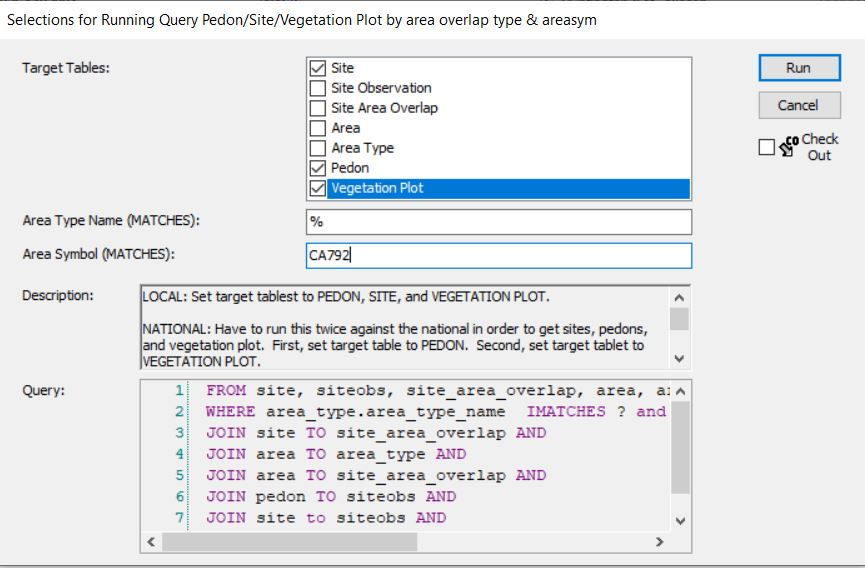
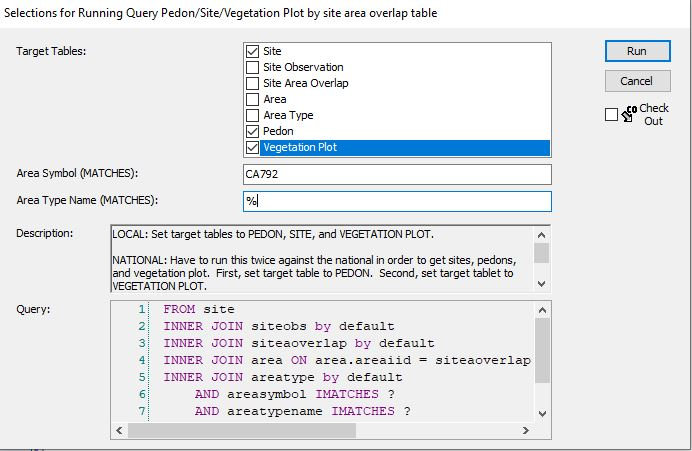
veg query html docs

diff --git a/docs/species.html b/docs/species.html
@@ -23,7 +23,7 @@
 <meta name="author" content="Nathan Roe - nateroe@gmail.com" />
 
 
-<meta name="date" content="2023-08-16" />
+<meta name="date" content="2023-11-28" />
 
   <meta name="viewport" content="width=device-width, initial-scale=1" />
   <meta name="apple-mobile-web-app-capable" content="yes" />
@@ -189,7 +189,8 @@ code span.wa { color: #60a0b0; font-weight: bold; font-style: italic; } /* Warni
 </ul></li>
 <li class="chapter" data-level="5" data-path="species.html"><a href="species.html"><i class="fa fa-check"></i><b>5</b> Species</a>
 <ul>
-<li class="chapter" data-level="5.1" data-path="species.html"><a href="species.html#mapping-the-location-of-species"><i class="fa fa-check"></i><b>5.1</b> Mapping the location of species</a></li>
+<li class="chapter" data-level="5.1" data-path="species.html"><a href="species.html#working-with-vegetation-data"><i class="fa fa-check"></i><b>5.1</b> Working with vegetation data</a></li>
+<li class="chapter" data-level="5.2" data-path="species.html"><a href="species.html#mapping-the-location-of-species"><i class="fa fa-check"></i><b>5.2</b> Mapping the location of species</a></li>
 </ul></li>
 <li class="chapter" data-level="6" data-path="nasis.html"><a href="nasis.html"><i class="fa fa-check"></i><b>6</b> NASIS</a>
 <ul>
@@ -225,11 +226,18 @@ code span.wa { color: #60a0b0; font-weight: bold; font-style: italic; } /* Warni
             <section class="normal" id="section-">
 <div id="species" class="section level1 hasAnchor" number="5">
 <h1><span class="header-section-number">Chapter 5</span> Species<a href="species.html#species" class="anchor-section" aria-label="Anchor link to header"></a></h1>
-<div id="mapping-the-location-of-species" class="section level2 hasAnchor" number="5.1">
-<h2><span class="header-section-number">5.1</span> Mapping the location of species<a href="species.html#mapping-the-location-of-species" class="anchor-section" aria-label="Anchor link to header"></a></h2>
+<div id="working-with-vegetation-data" class="section level2 hasAnchor" number="5.1">
+<h2><span class="header-section-number">5.1</span> Working with vegetation data<a href="species.html#working-with-vegetation-data" class="anchor-section" aria-label="Anchor link to header"></a></h2>
+<p>To begin with, we will query plot level NASIS data using the query outlined in <a href="ecosites.html#plotveg">Accessing plot level vegetation data</a>. Then, run <code>ecositer::vegStaticNASIS()</code> and <code>ecositer::formatted_veg_df()</code>. See the</p>
+<p>Vegetation data QC is a critical step in ecological data analysis. The USDA plants database improves vegetation data quality, ensuring proper scientific names are used, but additional QC must be performed. One of the primary tasks will be dealing with identifications to different taxonomic levels (i.e., genus, species, and subspecies). Statistical approaches think of each class separately and therefore do not recognize any similarity between taxonomic levels. For example, statistical analyses do not recognize any relationship between Pinus, Pinus contorta, and Pinus contorta var. murrayana. For this reason, you will need to determine how to modify your data based on the characteristics of your data set and expert knowledge. This will likely need to be done on a species-by-species basis. The ultimate goal is to group all of the observations of one organism into one class.</p>
+<p>Below is an example of this process and code you can use to assist:</p>
+<p>To begin with, I will look at all of the plant names used:</p>
+</div>
+<div id="mapping-the-location-of-species" class="section level2 hasAnchor" number="5.2">
+<h2><span class="header-section-number">5.2</span> Mapping the location of species<a href="species.html#mapping-the-location-of-species" class="anchor-section" aria-label="Anchor link to header"></a></h2>
 <p>Let’s take a look at the location of species. To do this we will query plot level NASIS data using the query outlined in <a href="ecosites.html#plotveg">Accessing plot level vegetation data</a>.</p>
 <p>Once you have queried, you can filter your dataset for any species of interest. I am going to search for a genus - <em>Artemisia</em> (sagebrush). Ultimately, we will produce a map that shows the distribution of all the species of <em>Artemisia</em>.</p>
-<div class="sourceCode" id="cb78"><pre class="sourceCode r"><code class="sourceCode r"><span id="cb78-1"><a href="species.html#cb78-1" aria-hidden="true" tabindex="-1"></a>veg_data <span class="ot">&lt;-</span> <span class="fu">fetchVegdata</span>(<span class="at">dsn =</span> <span class="st">&quot;C:/Users/Nathan.Roe/Documents/SEKI/CA792_veg.sqlite&quot;</span>, <span class="at">SS =</span> <span class="cn">FALSE</span>)</span></code></pre></div>
+<div class="sourceCode" id="cb78"><pre class="sourceCode r"><code class="sourceCode r"><span id="cb78-1"><a href="species.html#cb78-1" aria-hidden="true" tabindex="-1"></a>veg_data <span class="ot">&lt;-</span> <span class="fu">fetchVegdata</span>(<span class="at">dsn =</span> <span class="st">&quot;C:/Users/Nathan.Roe/Documents/SEKI/CA792_veg_data.sqlite&quot;</span>, <span class="at">SS =</span> <span class="cn">FALSE</span>)</span></code></pre></div>
 <pre><code>## NOTE: some records are missing surface fragment cover</code></pre>
 <div class="sourceCode" id="cb80"><pre class="sourceCode r"><code class="sourceCode r"><span id="cb80-1"><a href="species.html#cb80-1" aria-hidden="true" tabindex="-1"></a>artemesia_df <span class="ot">&lt;-</span></span>
 <span id="cb80-2"><a href="species.html#cb80-2" aria-hidden="true" tabindex="-1"></a>  veg_data<span class="sc">$</span>vegplotspecies <span class="sc">%&gt;%</span> <span class="fu">filter</span>(plantsciname <span class="sc">%in%</span> <span class="fu">str_subset</span>(veg_data<span class="sc">$</span>vegplotspecies<span class="sc">$</span>plantsciname, <span class="st">&quot;Artemisia&quot;</span>)) <span class="sc">%&gt;%</span></span>
@@ -244,12 +252,13 @@ code span.wa { color: #60a0b0; font-weight: bold; font-style: italic; } /* Warni
 <span id="cb81-7"><a href="species.html#cb81-7" aria-hidden="true" tabindex="-1"></a>  dplyr<span class="sc">::</span><span class="fu">left_join</span>(artemesia_df) <span class="sc">%&gt;%</span> <span class="fu">st_as_sf</span>(<span class="at">coords =</span> <span class="fu">c</span>(<span class="st">&#39;utmeasting&#39;</span>, <span class="st">&#39;utmnorthing&#39;</span>),</span>
 <span id="cb81-8"><a href="species.html#cb81-8" aria-hidden="true" tabindex="-1"></a>                                              <span class="at">crs =</span> <span class="fu">st_crs</span>(<span class="dv">32611</span>))</span></code></pre></div>
 <pre><code>## Joining with `by = join_by(siteiid)`</code></pre>
-<pre><code>## Warning in dplyr::left_join(., artemesia_df): Each row in `x` is expected to match at most 1 row in `y`.
+<pre><code>## Warning in dplyr::left_join(., artemesia_df): Each row in `x` is expected to match at most 1 row in
+## `y`.
 ## ℹ Row 1 of `x` matches multiple rows.
-## ℹ If multiple matches are expected, set `multiple = &quot;all&quot;` to
-##   silence this warning.</code></pre>
+## ℹ If multiple matches are expected, set `multiple =
+##   &quot;all&quot;` to silence this warning.</code></pre>
 <p>Create a list of dataframes based on the different</p>
-<div class="sourceCode" id="cb84"><pre class="sourceCode r"><code class="sourceCode r"><span id="cb84-1"><a href="species.html#cb84-1" aria-hidden="true" tabindex="-1"></a>veg_data <span class="ot">&lt;-</span> <span class="fu">fetchVegdata</span>(<span class="at">dsn =</span> <span class="st">&quot;C:/Users/Nathan.Roe/Documents/SEKI/CA792_veg.sqlite&quot;</span>, <span class="at">SS =</span> <span class="cn">FALSE</span>)</span></code></pre></div>
+<div class="sourceCode" id="cb84"><pre class="sourceCode r"><code class="sourceCode r"><span id="cb84-1"><a href="species.html#cb84-1" aria-hidden="true" tabindex="-1"></a>veg_data <span class="ot">&lt;-</span> <span class="fu">fetchVegdata</span>(<span class="at">dsn =</span> <span class="st">&quot;C:/Users/Nathan.Roe/Documents/SEKI/CA792_veg_data.sqlite&quot;</span>, <span class="at">SS =</span> <span class="cn">FALSE</span>)</span></code></pre></div>
 <pre><code>## NOTE: some records are missing surface fragment cover</code></pre>
 <div class="sourceCode" id="cb86"><pre class="sourceCode r"><code class="sourceCode r"><span id="cb86-1"><a href="species.html#cb86-1" aria-hidden="true" tabindex="-1"></a>artemesia_df <span class="ot">&lt;-</span></span>
 <span id="cb86-2"><a href="species.html#cb86-2" aria-hidden="true" tabindex="-1"></a>  veg_data<span class="sc">$</span>vegplotspecies <span class="sc">%&gt;%</span> <span class="fu">filter</span>(plantsciname <span class="sc">%in%</span> <span class="fu">str_subset</span>(veg_data<span class="sc">$</span>vegplotspecies<span class="sc">$</span>plantsciname, <span class="st">&quot;Artemisia&quot;</span>)) <span class="sc">%&gt;%</span></span>
@@ -260,10 +269,11 @@ code span.wa { color: #60a0b0; font-weight: bold; font-style: italic; } /* Warni
 <span id="cb86-7"><a href="species.html#cb86-7" aria-hidden="true" tabindex="-1"></a>  dplyr<span class="sc">::</span><span class="fu">left_join</span>(artemesia_df) <span class="sc">%&gt;%</span> <span class="fu">st_as_sf</span>(<span class="at">coords =</span> <span class="fu">c</span>(<span class="st">&#39;utmeasting&#39;</span>, <span class="st">&#39;utmnorthing&#39;</span>),</span>
 <span id="cb86-8"><a href="species.html#cb86-8" aria-hidden="true" tabindex="-1"></a>                                              <span class="at">crs =</span> <span class="fu">st_crs</span>(<span class="dv">32611</span>))</span></code></pre></div>
 <pre><code>## Joining with `by = join_by(siteiid)`</code></pre>
-<pre><code>## Warning in dplyr::left_join(., artemesia_df): Each row in `x` is expected to match at most 1 row in `y`.
+<pre><code>## Warning in dplyr::left_join(., artemesia_df): Each row in `x` is expected to match at most 1 row in
+## `y`.
 ## ℹ Row 1 of `x` matches multiple rows.
-## ℹ If multiple matches are expected, set `multiple = &quot;all&quot;` to
-##   silence this warning.</code></pre>
+## ℹ If multiple matches are expected, set `multiple =
+##   &quot;all&quot;` to silence this warning.</code></pre>
 <div class="sourceCode" id="cb89"><pre class="sourceCode r"><code class="sourceCode r"><span id="cb89-1"><a href="species.html#cb89-1" aria-hidden="true" tabindex="-1"></a>artemesia_location_split <span class="ot">&lt;-</span>  <span class="fu">split</span>(artemesia_location, artemesia_location<span class="sc">$</span>plantsciname)</span>
 <span id="cb89-2"><a href="species.html#cb89-2" aria-hidden="true" tabindex="-1"></a></span>
 <span id="cb89-3"><a href="species.html#cb89-3" aria-hidden="true" tabindex="-1"></a></span>
@@ -277,10 +287,10 @@ code span.wa { color: #60a0b0; font-weight: bold; font-style: italic; } /* Warni
 <p>Let’s look at how we can create a stored SQlite database.</p>
 <div class="sourceCode" id="cb90"><pre class="sourceCode r"><code class="sourceCode r"><span id="cb90-1"><a href="species.html#cb90-1" aria-hidden="true" tabindex="-1"></a>soilDB<span class="sc">::</span><span class="fu">createStaticNASIS</span>(<span class="at">SS =</span> <span class="cn">TRUE</span>, <span class="at">tables =</span> </span>
 <span id="cb90-2"><a href="species.html#cb90-2" aria-hidden="true" tabindex="-1"></a>      soilDB<span class="sc">::</span><span class="fu">get_NASIS_table_name_by_purpose</span>(<span class="fu">c</span>(<span class="st">&quot;area&quot;</span>, <span class="st">&quot;legend&quot;</span>, <span class="st">&quot;mapunit&quot;</span>, <span class="st">&quot;datamapunit&quot;</span>, <span class="st">&quot;component&quot;</span>, <span class="st">&quot;metadata&quot;</span>, <span class="st">&quot;lookup&quot;</span>, <span class="st">&quot;nasis&quot;</span>)),</span>
-<span id="cb90-3"><a href="species.html#cb90-3" aria-hidden="true" tabindex="-1"></a>      <span class="at">output_path =</span> <span class="st">&quot;C:/Users/Nathan.Roe/Documents/SEKI/CA792_veg.sqlite&quot;</span>)</span></code></pre></div>
+<span id="cb90-3"><a href="species.html#cb90-3" aria-hidden="true" tabindex="-1"></a>      <span class="at">output_path =</span> <span class="st">&quot;C:/Users/Nathan.Roe/Documents/SEKI/CA792_veg_data.sqlite&quot;</span>)</span></code></pre></div>
 <p>Note: The tables listed in the get_NASIS_table_name_by_purpose argument should cover the majority of situations. If you run into an issue, though, soilDB will likely name a specific table that is missing. If that happens, you will have to add the table to the character vector.</p>
 <p>Once you have stored your SQlite database, you can call it using the soilDB functions. The default argument in <code>fetchNASIS()</code> and other SoilDB functions is <code>SS = TRUE</code>. We are going to change that to false and identify the location of the SQlite database in the dsn argument.</p>
-<div class="sourceCode" id="cb91"><pre class="sourceCode r"><code class="sourceCode r"><span id="cb91-1"><a href="species.html#cb91-1" aria-hidden="true" tabindex="-1"></a>my.components.MLRA <span class="ot">&lt;-</span> <span class="fu">fetchNASIS</span>(<span class="at">from =</span> <span class="st">&quot;components&quot;</span>, <span class="at">duplicates =</span> T, <span class="at">dsn =</span> <span class="st">&quot;C:/Users/Nathan.Roe/Documents/SEKI/CA792_veg.sqlite&quot;</span>, <span class="at">SS =</span> <span class="cn">FALSE</span>)</span></code></pre></div>
+<div class="sourceCode" id="cb91"><pre class="sourceCode r"><code class="sourceCode r"><span id="cb91-1"><a href="species.html#cb91-1" aria-hidden="true" tabindex="-1"></a>my.components.MLRA <span class="ot">&lt;-</span> <span class="fu">fetchNASIS</span>(<span class="at">from =</span> <span class="st">&quot;components&quot;</span>, <span class="at">duplicates =</span> T, <span class="at">dsn =</span> <span class="st">&quot;C:/Users/Nathan.Roe/Documents/SEKI/CA792_veg_data.sqlite&quot;</span>, <span class="at">SS =</span> <span class="cn">FALSE</span>)</span></code></pre></div>
 <p>This can be extremely useful when you have multiple selected sets that you are working with.</p>
 
 </div>

diff --git a/docs/ecosites.html b/docs/ecosites.html
@@ -23,7 +23,7 @@
 <meta name="author" content="Nathan Roe - nateroe@gmail.com" />
 
 
-<meta name="date" content="2023-08-16" />
+<meta name="date" content="2023-11-28" />
 
   <meta name="viewport" content="width=device-width, initial-scale=1" />
   <meta name="apple-mobile-web-app-capable" content="yes" />
@@ -189,7 +189,8 @@ code span.wa { color: #60a0b0; font-weight: bold; font-style: italic; } /* Warni
 </ul></li>
 <li class="chapter" data-level="5" data-path="species.html"><a href="species.html"><i class="fa fa-check"></i><b>5</b> Species</a>
 <ul>
-<li class="chapter" data-level="5.1" data-path="species.html"><a href="species.html#mapping-the-location-of-species"><i class="fa fa-check"></i><b>5.1</b> Mapping the location of species</a></li>
+<li class="chapter" data-level="5.1" data-path="species.html"><a href="species.html#working-with-vegetation-data"><i class="fa fa-check"></i><b>5.1</b> Working with vegetation data</a></li>
+<li class="chapter" data-level="5.2" data-path="species.html"><a href="species.html#mapping-the-location-of-species"><i class="fa fa-check"></i><b>5.2</b> Mapping the location of species</a></li>
 </ul></li>
 <li class="chapter" data-level="6" data-path="nasis.html"><a href="nasis.html"><i class="fa fa-check"></i><b>6</b> NASIS</a>
 <ul>
@@ -373,7 +374,7 @@ code span.wa { color: #60a0b0; font-weight: bold; font-style: italic; } /* Warni
 </div>
 <div id="plotveg" class="section level2 hasAnchor" number="4.7">
 <h2><span class="header-section-number">4.7</span> Accessing plot level vegetation data<a href="ecosites.html#plotveg" class="anchor-section" aria-label="Anchor link to header"></a></h2>
-<p>This requires a bit of Querying magic. The Query that we want is MLRA13_Wasilla &gt; ‘Pedon/Site/Vegetation Plot by area overlap type and areasym’. The description for this Query gives the necessary details.</p>
+<p>This requires a bit of Querying magic. The Query that we want is MLRA13_Wasilla &gt; ‘Pedon/Site/Vegetation Plot by site area overlap table’. The description for this Query gives the necessary details.</p>
 <p>NATIONAL: Have to run this twice against the national in order to get sites, pedons, and vegetation plot. First, set target table to PEDON. Second, set target tablet to VEGETATION PLOT.</p>
 <p>LOCAL: Set target tablest to PEDON, SITE, and VEGETATION PLOT.</p>
 <ol style="list-style-type: decimal">
@@ -384,7 +385,7 @@ code span.wa { color: #60a0b0; font-weight: bold; font-style: italic; } /* Warni
 <li><p>Run against Local
 <img src="_book/veg_plot_local.JPG" alt="Run against local Vegplot" /></p></li>
 </ol>
-<div class="sourceCode" id="cb75"><pre class="sourceCode r"><code class="sourceCode r"><span id="cb75-1"><a href="ecosites.html#cb75-1" aria-hidden="true" tabindex="-1"></a>veg_data <span class="ot">&lt;-</span> <span class="fu">fetchVegdata</span>(<span class="at">SS =</span> <span class="cn">TRUE</span>)</span></code></pre></div>
+<div class="sourceCode" id="cb75"><pre class="sourceCode r"><code class="sourceCode r"><span id="cb75-1"><a href="ecosites.html#cb75-1" aria-hidden="true" tabindex="-1"></a>veg_data <span class="ot">&lt;-</span> soilDB<span class="sc">::</span><span class="fu">fetchVegdata</span>(<span class="at">SS =</span> <span class="cn">TRUE</span>)</span></code></pre></div>
 <p>I will return to this to provide some tools for dealing with the actual veg data.</p>
 <div class="sourceCode" id="cb76"><pre class="sourceCode r"><code class="sourceCode r"><span id="cb76-1"><a href="ecosites.html#cb76-1" aria-hidden="true" tabindex="-1"></a>test <span class="ot">&lt;-</span> <span class="fu">data.frame</span>(<span class="at">UserSiteID =</span> veg_data<span class="sc">$</span>vegplot<span class="sc">$</span>site_id, <span class="at">DataOrigin =</span> veg_data<span class="sc">$</span>vegplot<span class="sc">$</span>vegdataorigin)</span>
 <span id="cb76-2"><a href="ecosites.html#cb76-2" aria-hidden="true" tabindex="-1"></a></span>

diff --git a/docs/components.html b/docs/components.html
@@ -23,7 +23,7 @@
 <meta name="author" content="Nathan Roe - nateroe@gmail.com" />
 
 
-<meta name="date" content="2023-08-16" />
+<meta name="date" content="2023-11-28" />
 
   <meta name="viewport" content="width=device-width, initial-scale=1" />
   <meta name="apple-mobile-web-app-capable" content="yes" />
@@ -189,7 +189,8 @@ code span.wa { color: #60a0b0; font-weight: bold; font-style: italic; } /* Warni
 </ul></li>
 <li class="chapter" data-level="5" data-path="species.html"><a href="species.html"><i class="fa fa-check"></i><b>5</b> Species</a>
 <ul>
-<li class="chapter" data-level="5.1" data-path="species.html"><a href="species.html#mapping-the-location-of-species"><i class="fa fa-check"></i><b>5.1</b> Mapping the location of species</a></li>
+<li class="chapter" data-level="5.1" data-path="species.html"><a href="species.html#working-with-vegetation-data"><i class="fa fa-check"></i><b>5.1</b> Working with vegetation data</a></li>
+<li class="chapter" data-level="5.2" data-path="species.html"><a href="species.html#mapping-the-location-of-species"><i class="fa fa-check"></i><b>5.2</b> Mapping the location of species</a></li>
 </ul></li>
 <li class="chapter" data-level="6" data-path="nasis.html"><a href="nasis.html"><i class="fa fa-check"></i><b>6</b> NASIS</a>
 <ul>
@@ -483,10 +484,11 @@ rock frag using the horizon thickness as the weighting.</p>
 <span id="cb40-8"><a href="components.html#cb40-8" aria-hidden="true" tabindex="-1"></a>                elev_rv, elev_h, map_l, map_rv, map_h, maat_l, maat_rv, </span>
 <span id="cb40-9"><a href="components.html#cb40-9" aria-hidden="true" tabindex="-1"></a>                maat_h, ffd_l, ffd_rv, ffd_h ,comppct_r, dmuiid, </span>
 <span id="cb40-10"><a href="components.html#cb40-10" aria-hidden="true" tabindex="-1"></a>                <span class="fu">everything</span>())</span></code></pre></div>
-<pre><code>## Warning in left_join(., component_data_combined): Each row in `x` is expected to match at most 1 row in `y`.
+<pre><code>## Warning in left_join(., component_data_combined): Each row in `x` is expected to match at most 1 row in
+## `y`.
 ## ℹ Row 149 of `x` matches multiple rows.
-## ℹ If multiple matches are expected, set `multiple = &quot;all&quot;` to
-##   silence this warning.</code></pre>
+## ℹ If multiple matches are expected, set `multiple =
+##   &quot;all&quot;` to silence this warning.</code></pre>
 <p>Save as csv</p>
 <div class="sourceCode" id="cb42"><pre class="sourceCode r"><code class="sourceCode r"><span id="cb42-1"><a href="components.html#cb42-1" aria-hidden="true" tabindex="-1"></a><span class="fu">write.csv</span>(all_data, <span class="st">&quot;C:/Users/Nathan.Roe/Downloads/my_ecosite_report.csv&quot;</span>,</span>
 <span id="cb42-2"><a href="components.html#cb42-2" aria-hidden="true" tabindex="-1"></a>          <span class="at">row.names =</span> <span class="cn">FALSE</span>)</span></code></pre></div>

diff --git a/docs/index.html b/docs/index.html
@@ -23,7 +23,7 @@
 <meta name="author" content="Nathan Roe - nateroe@gmail.com" />
 
 
-<meta name="date" content="2023-08-16" />
+<meta name="date" content="2023-11-28" />
 
   <meta name="viewport" content="width=device-width, initial-scale=1" />
   <meta name="apple-mobile-web-app-capable" content="yes" />
@@ -189,7 +189,8 @@ code span.wa { color: #60a0b0; font-weight: bold; font-style: italic; } /* Warni
 </ul></li>
 <li class="chapter" data-level="5" data-path="species.html"><a href="species.html"><i class="fa fa-check"></i><b>5</b> Species</a>
 <ul>
-<li class="chapter" data-level="5.1" data-path="species.html"><a href="species.html#mapping-the-location-of-species"><i class="fa fa-check"></i><b>5.1</b> Mapping the location of species</a></li>
+<li class="chapter" data-level="5.1" data-path="species.html"><a href="species.html#working-with-vegetation-data"><i class="fa fa-check"></i><b>5.1</b> Working with vegetation data</a></li>
+<li class="chapter" data-level="5.2" data-path="species.html"><a href="species.html#mapping-the-location-of-species"><i class="fa fa-check"></i><b>5.2</b> Mapping the location of species</a></li>
 </ul></li>
 <li class="chapter" data-level="6" data-path="nasis.html"><a href="nasis.html"><i class="fa fa-check"></i><b>6</b> NASIS</a>
 <ul>
@@ -226,7 +227,7 @@ code span.wa { color: #60a0b0; font-weight: bold; font-style: italic; } /* Warni
 <div id="header">
 <h1 class="title">NRCS Ecologist FAQs</h1>
 <p class="author"><em>Nathan Roe - <a href="mailto:nateroe@gmail.com" class="email">nateroe@gmail.com</a></em></p>
-<p class="date"><em>2023-08-16</em></p>
+<p class="date"><em>2023-11-28</em></p>
 </div>
 <div id="introduction" class="section level1 hasAnchor" number="1">
 <h1><span class="header-section-number">Chapter 1</span> Introduction<a href="index.html#introduction" class="anchor-section" aria-label="Anchor link to header"></a></h1>

diff --git a/docs/404.html b/docs/404.html
@@ -23,7 +23,7 @@
 <meta name="author" content="Nathan Roe - nateroe@gmail.com" />
 
 
-<meta name="date" content="2023-08-16" />
+<meta name="date" content="2023-11-28" />
 
   <meta name="viewport" content="width=device-width, initial-scale=1" />
   <meta name="apple-mobile-web-app-capable" content="yes" />
@@ -189,7 +189,8 @@ code span.wa { color: #60a0b0; font-weight: bold; font-style: italic; } /* Warni
 </ul></li>
 <li class="chapter" data-level="5" data-path="species.html"><a href="species.html"><i class="fa fa-check"></i><b>5</b> Species</a>
 <ul>
-<li class="chapter" data-level="5.1" data-path="species.html"><a href="species.html#mapping-the-location-of-species"><i class="fa fa-check"></i><b>5.1</b> Mapping the location of species</a></li>
+<li class="chapter" data-level="5.1" data-path="species.html"><a href="species.html#working-with-vegetation-data"><i class="fa fa-check"></i><b>5.1</b> Working with vegetation data</a></li>
+<li class="chapter" data-level="5.2" data-path="species.html"><a href="species.html#mapping-the-location-of-species"><i class="fa fa-check"></i><b>5.2</b> Mapping the location of species</a></li>
 </ul></li>
 <li class="chapter" data-level="6" data-path="nasis.html"><a href="nasis.html"><i class="fa fa-check"></i><b>6</b> NASIS</a>
 <ul>

diff --git a/docs/mapunits.html b/docs/mapunits.html
@@ -23,7 +23,7 @@
 <meta name="author" content="Nathan Roe - nateroe@gmail.com" />
 
 
-<meta name="date" content="2023-08-16" />
+<meta name="date" content="2023-11-28" />
 
   <meta name="viewport" content="width=device-width, initial-scale=1" />
   <meta name="apple-mobile-web-app-capable" content="yes" />
@@ -189,7 +189,8 @@ code span.wa { color: #60a0b0; font-weight: bold; font-style: italic; } /* Warni
 </ul></li>
 <li class="chapter" data-level="5" data-path="species.html"><a href="species.html"><i class="fa fa-check"></i><b>5</b> Species</a>
 <ul>
-<li class="chapter" data-level="5.1" data-path="species.html"><a href="species.html#mapping-the-location-of-species"><i class="fa fa-check"></i><b>5.1</b> Mapping the location of species</a></li>
+<li class="chapter" data-level="5.1" data-path="species.html"><a href="species.html#working-with-vegetation-data"><i class="fa fa-check"></i><b>5.1</b> Working with vegetation data</a></li>
+<li class="chapter" data-level="5.2" data-path="species.html"><a href="species.html#mapping-the-location-of-species"><i class="fa fa-check"></i><b>5.2</b> Mapping the location of species</a></li>
 </ul></li>
 <li class="chapter" data-level="6" data-path="nasis.html"><a href="nasis.html"><i class="fa fa-check"></i><b>6</b> NASIS</a>
 <ul>

diff --git a/docs/nasis.html b/docs/nasis.html
@@ -23,7 +23,7 @@
 <meta name="author" content="Nathan Roe - nateroe@gmail.com" />
 
 
-<meta name="date" content="2023-08-16" />
+<meta name="date" content="2023-11-28" />
 
   <meta name="viewport" content="width=device-width, initial-scale=1" />
   <meta name="apple-mobile-web-app-capable" content="yes" />
@@ -189,7 +189,8 @@ code span.wa { color: #60a0b0; font-weight: bold; font-style: italic; } /* Warni
 </ul></li>
 <li class="chapter" data-level="5" data-path="species.html"><a href="species.html"><i class="fa fa-check"></i><b>5</b> Species</a>
 <ul>
-<li class="chapter" data-level="5.1" data-path="species.html"><a href="species.html#mapping-the-location-of-species"><i class="fa fa-check"></i><b>5.1</b> Mapping the location of species</a></li>
+<li class="chapter" data-level="5.1" data-path="species.html"><a href="species.html#working-with-vegetation-data"><i class="fa fa-check"></i><b>5.1</b> Working with vegetation data</a></li>
+<li class="chapter" data-level="5.2" data-path="species.html"><a href="species.html#mapping-the-location-of-species"><i class="fa fa-check"></i><b>5.2</b> Mapping the location of species</a></li>
 </ul></li>
 <li class="chapter" data-level="6" data-path="nasis.html"><a href="nasis.html"><i class="fa fa-check"></i><b>6</b> NASIS</a>
 <ul>

diff --git a/docs/package-buildingmaintaining-tips.html b/docs/package-buildingmaintaining-tips.html
@@ -23,7 +23,7 @@
 <meta name="author" content="Nathan Roe - nateroe@gmail.com" />
 
 
-<meta name="date" content="2023-08-16" />
+<meta name="date" content="2023-11-28" />
 
   <meta name="viewport" content="width=device-width, initial-scale=1" />
   <meta name="apple-mobile-web-app-capable" content="yes" />
@@ -189,7 +189,8 @@ code span.wa { color: #60a0b0; font-weight: bold; font-style: italic; } /* Warni
 </ul></li>
 <li class="chapter" data-level="5" data-path="species.html"><a href="species.html"><i class="fa fa-check"></i><b>5</b> Species</a>
 <ul>
-<li class="chapter" data-level="5.1" data-path="species.html"><a href="species.html#mapping-the-location-of-species"><i class="fa fa-check"></i><b>5.1</b> Mapping the location of species</a></li>
+<li class="chapter" data-level="5.1" data-path="species.html"><a href="species.html#working-with-vegetation-data"><i class="fa fa-check"></i><b>5.1</b> Working with vegetation data</a></li>
+<li class="chapter" data-level="5.2" data-path="species.html"><a href="species.html#mapping-the-location-of-species"><i class="fa fa-check"></i><b>5.2</b> Mapping the location of species</a></li>
 </ul></li>
 <li class="chapter" data-level="6" data-path="nasis.html"><a href="nasis.html"><i class="fa fa-check"></i><b>6</b> NASIS</a>
 <ul>

diff --git a/docs/random-tools.html b/docs/random-tools.html
@@ -23,7 +23,7 @@
 <meta name="author" content="Nathan Roe - nateroe@gmail.com" />
 
 
-<meta name="date" content="2023-08-16" />
+<meta name="date" content="2023-11-28" />
 
   <meta name="viewport" content="width=device-width, initial-scale=1" />
   <meta name="apple-mobile-web-app-capable" content="yes" />
@@ -189,7 +189,8 @@ code span.wa { color: #60a0b0; font-weight: bold; font-style: italic; } /* Warni
 </ul></li>
 <li class="chapter" data-level="5" data-path="species.html"><a href="species.html"><i class="fa fa-check"></i><b>5</b> Species</a>
 <ul>
-<li class="chapter" data-level="5.1" data-path="species.html"><a href="species.html#mapping-the-location-of-species"><i class="fa fa-check"></i><b>5.1</b> Mapping the location of species</a></li>
+<li class="chapter" data-level="5.1" data-path="species.html"><a href="species.html#working-with-vegetation-data"><i class="fa fa-check"></i><b>5.1</b> Working with vegetation data</a></li>
+<li class="chapter" data-level="5.2" data-path="species.html"><a href="species.html#mapping-the-location-of-species"><i class="fa fa-check"></i><b>5.2</b> Mapping the location of species</a></li>
 </ul></li>
 <li class="chapter" data-level="6" data-path="nasis.html"><a href="nasis.html"><i class="fa fa-check"></i><b>6</b> NASIS</a>
 <ul>
